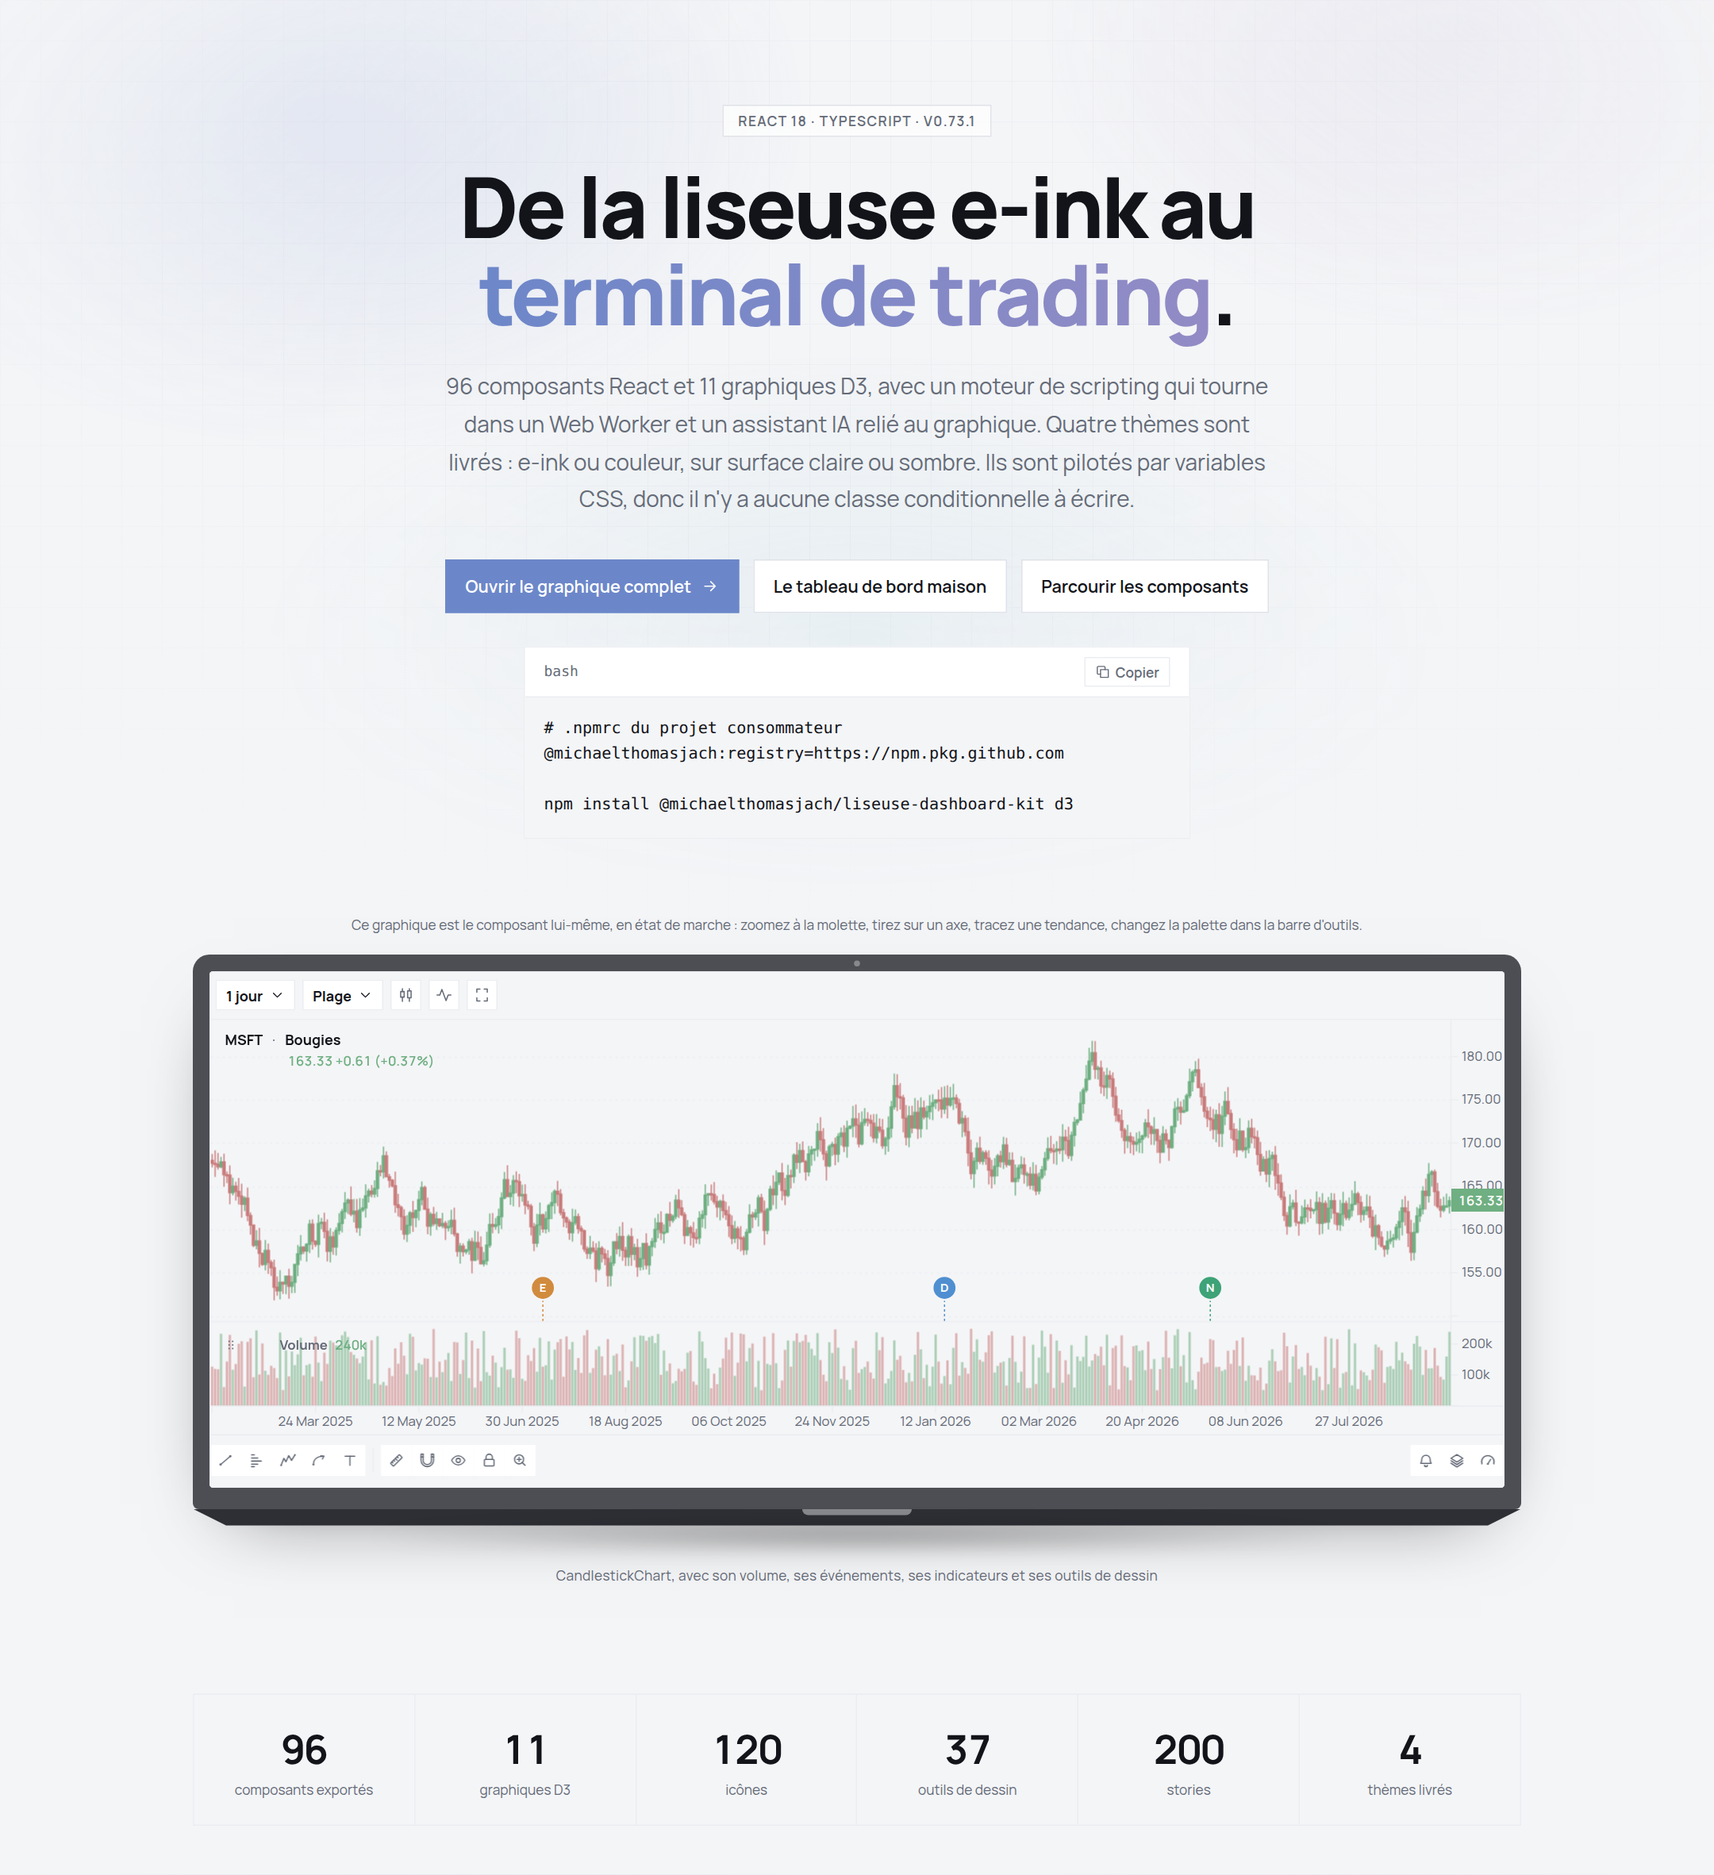
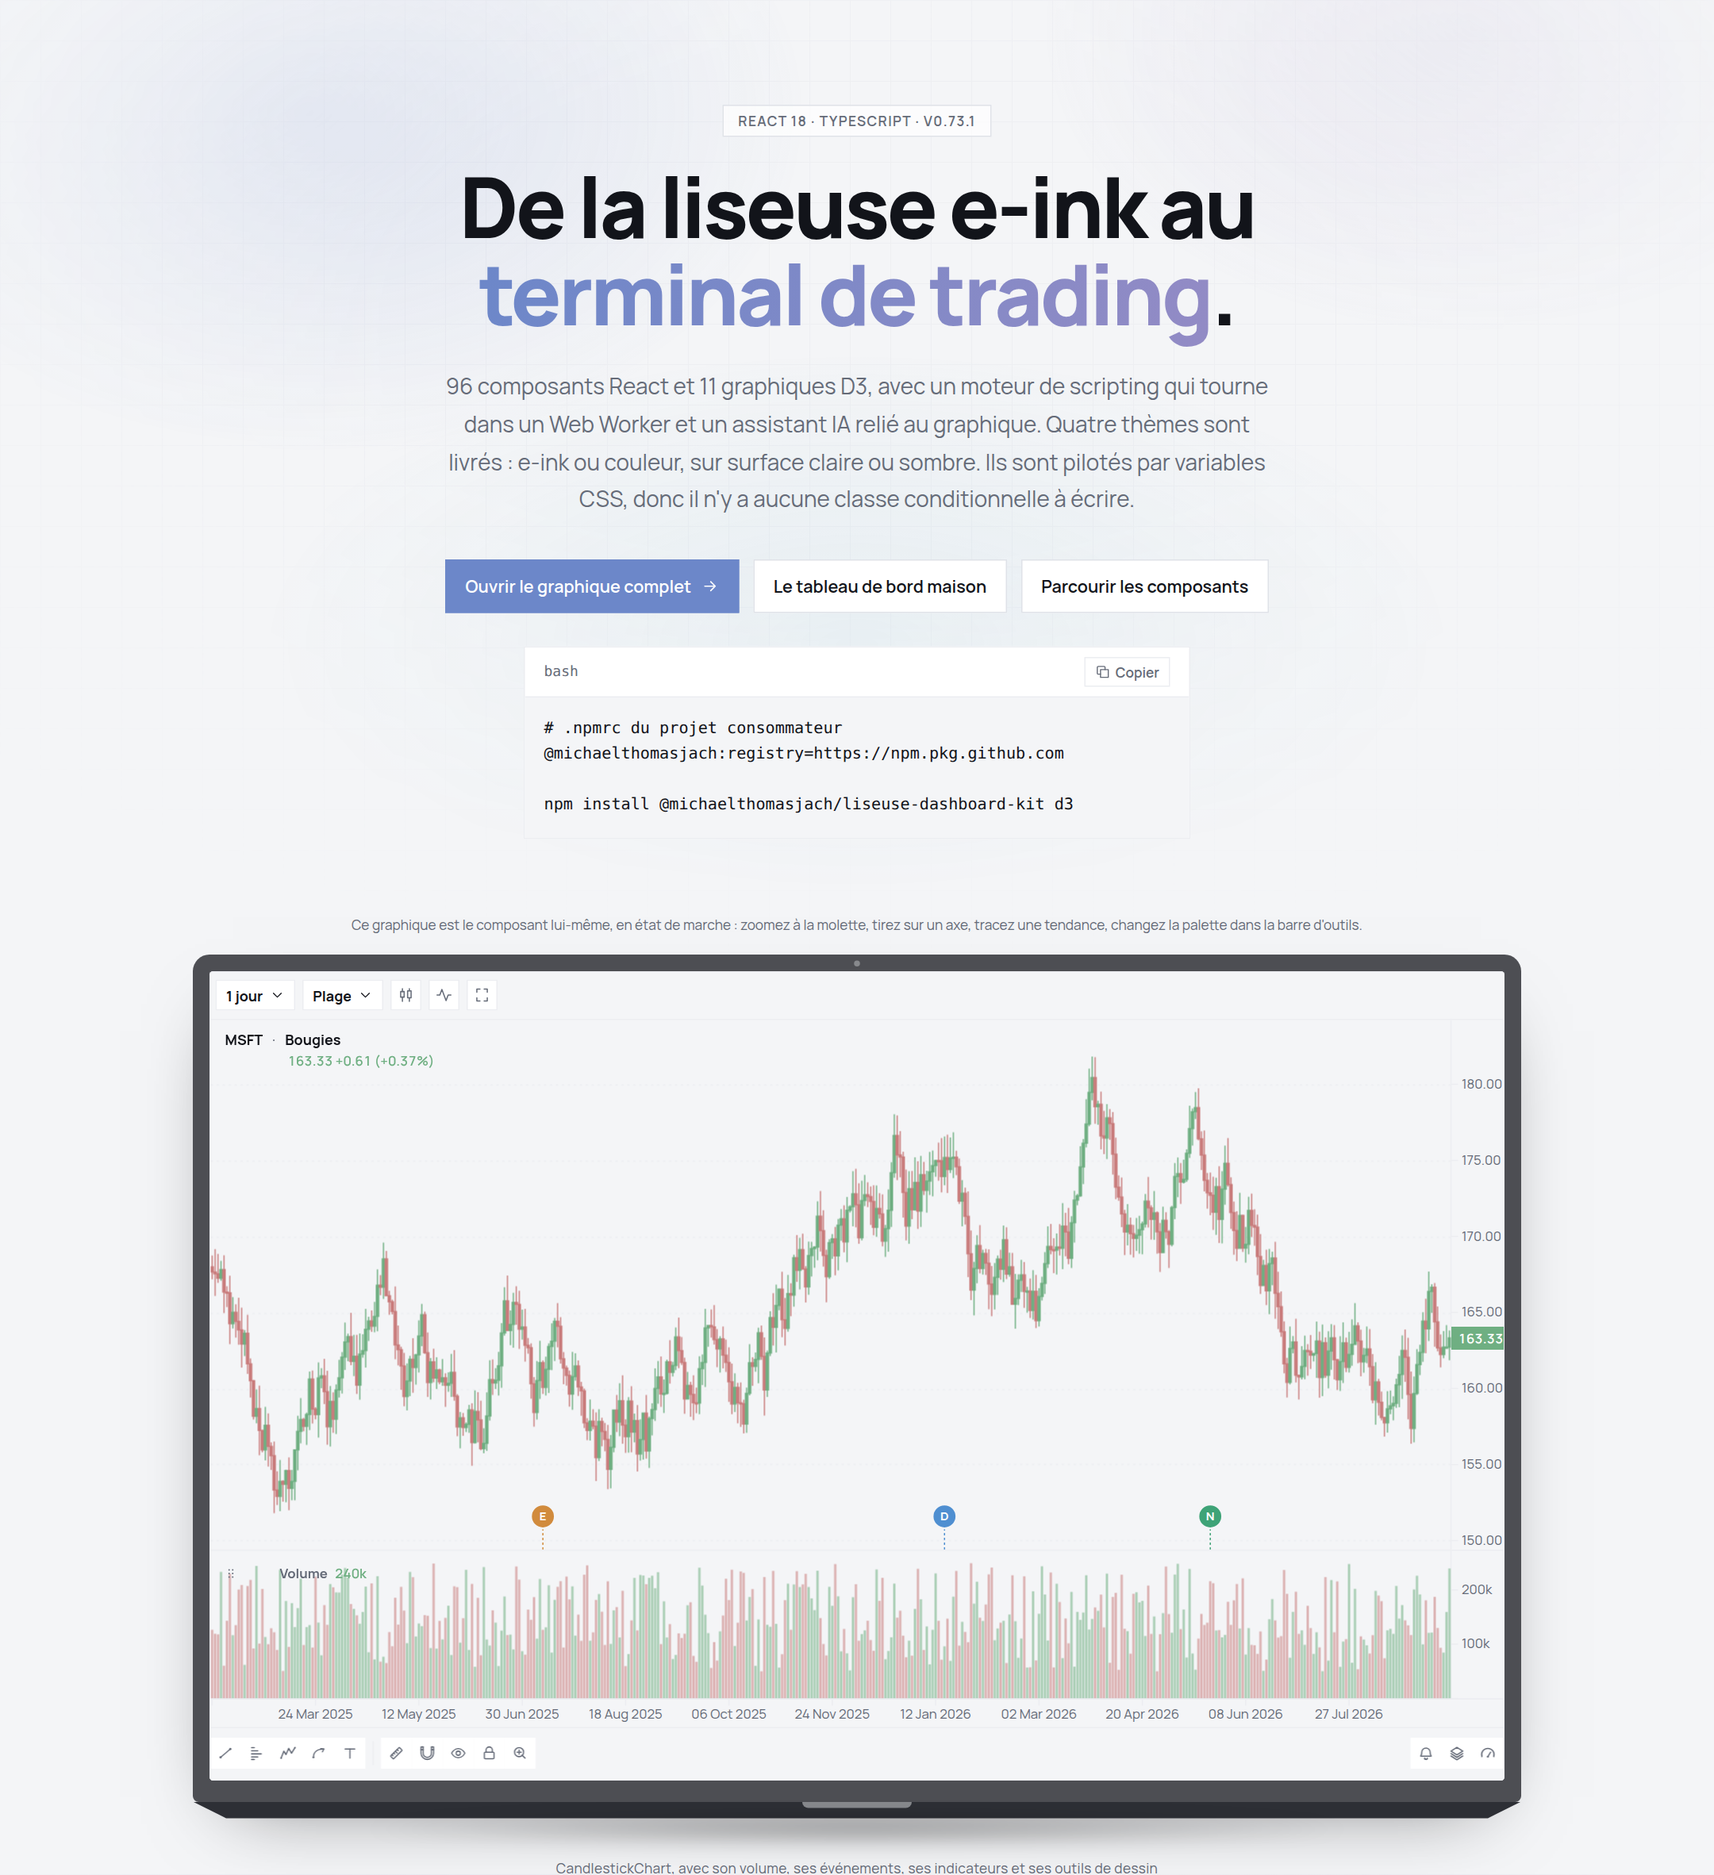
feat(scripting): the no-code canvas takes the whole pane, and a block's code opens in a modal
A third of the editor's height went to a pane that was empty until a
block was selected, and showed one block's body when it was. The canvas
is the view now: clicking a block opens its code in a modal instead, and
the row underneath is gone.

Clicking, not selecting. Selection is set on pointer-down and also means
"what a newly added block attaches to", so tying the modal to it would
have popped it open at the start of every drag. A separate `editingId`
is set by a click that did not move the block, tracked with a ref flipped
the moment a node drag actually moves. Checked both ways: a 120px drag
moves the card and opens nothing, a click opens the block.

Also fixes the device mock-ups on the landing page, which had no real
proportions: the laptop was 2.5:1 where a screen is 16:10, the tablet
1.03 against an iPad's 1.439, the phone 0.542 against an iPhone's 0.461.
All three are on their real ratio now and what goes inside fills them,
rather than the frame being however tall its contents came out. The home
dashboard lost its energy widget in the process — 148px for the 78px the
2360x1640 screen actually has spare.

The three README pictures those changed are regenerated.

Changed region(s): [[0.0931, 0.5561, 0.8995, 1.0], [0.8375, 0.5561, 0.8685, 0.587]]

diff --git a/src/components/charts/candlestick/scripting/components/ScriptGraphEditor.tsx b/src/components/charts/candlestick/scripting/components/ScriptGraphEditor.tsx
@@ -1,5 +1,6 @@
 import { useCallback, useMemo, useRef, useState, type PointerEvent as ReactPointerEvent, type ReactNode } from "react";
 import { PlayIcon, CloseIcon, PlusIcon } from "../../../../icons";
+import { Modal } from "../../../../primitives/Modal";
 import {
   GRAPH_NODE_WIDTH,
   codeForRunPath,
@@ -65,12 +66,20 @@ export function ScriptGraphEditor({ code, onChange, onRunBlock, running, renderB
   const [view, setView] = useState({ x: 0, y: 0, scale: 1 });
   const [drag, setDrag] = useState<DragState | null>(null);
   const [selectedId, setSelectedId] = useState<string | null>(null);
+  /* Which block's code is open in the modal. Separate from `selectedId`, which also means "what a
+     newly added block attaches to" and is set on pointer-down: tying the modal to it would pop it
+     open at the start of every drag. */
+  const [editingId, setEditingId] = useState<string | null>(null);
+  /* Set as soon as a node drag actually moves. A block is opened by a click that did not move the
+     block, which is the only way to tell a tap from the beginning of a drag. */
+  const draggedRef = useRef(false);
 
   // Parsed fresh from the code every time it changes, then laid out — nodes the source positions
   // stay where they are, the rest get a place by depth (see `layoutScriptGraph`).
   const parsed = useMemo(() => parseScriptGraph(code), [code]);
   const graph = useMemo(() => layoutScriptGraph(parsed), [parsed]);
   const selected = graph.nodes.find((n) => n.id === selectedId) ?? null;
+  const editing = graph.nodes.find((n) => n.id === editingId) ?? null;
 
   /** Writes a graph back to the code. Every mutation goes through here, so the code is updated
    *  synchronously with the diagram and the two can never drift apart. */
@@ -95,7 +104,10 @@ export function ScriptGraphEditor({ code, onChange, onRunBlock, running, renderB
       return;
     }
     const point = toCanvas(e.clientX, e.clientY);
-    if (drag.kind === "node") setDrag({ ...drag, x: point.x - drag.grabX, y: point.y - drag.grabY });
+    if (drag.kind === "node") {
+      draggedRef.current = true;
+      setDrag({ ...drag, x: point.x - drag.grabX, y: point.y - drag.grabY });
+    }
     else setDrag({ ...drag, x: point.x, y: point.y });
   }
 
@@ -219,6 +231,7 @@ export function ScriptGraphEditor({ code, onChange, onRunBlock, running, renderB
         ),
     );
     if (selectedId === id) setSelectedId(null);
+    if (editingId === id) setEditingId(null);
   }
 
   function setNodeTitle(id: string, title: string) {
@@ -403,11 +416,16 @@ export function ScriptGraphEditor({ code, onChange, onRunBlock, running, renderB
                   onPointerDown={(e) => {
                     e.stopPropagation();
                     setSelectedId(node.id);
+                    draggedRef.current = false;
                     // The preamble is pinned: it has no `@block` line to write a position on, and
                     // it always runs first anyway (see ScriptGraphNode.preamble).
                     if (node.preamble) return;
                     const point = toCanvas(e.clientX, e.clientY);
                     setDrag({ kind: "node", id: node.id, grabX: point.x - at.x, grabY: point.y - at.y, x: at.x, y: at.y });
+                  }}
+                  onClick={() => {
+                    if (draggedRef.current) return;
+                    setEditingId(node.id);
                   }}
                 >
                   {!node.preamble &&
@@ -525,40 +543,42 @@ export function ScriptGraphEditor({ code, onChange, onRunBlock, running, renderB
         </div>
       </div>
 
-      <div className="lq-script-graph__inspector">
-        {selected ? (
-          <>
-            <div className="lq-script-graph__inspector-head">
-              {selected.preamble ? (
-                <span className="lq-script-graph__inspector-title">Préambule — s'exécute avant tous les blocs</span>
-              ) : (
-                <input
-                  className="lq-script-graph__inspector-name"
-                  value={selected.title}
-                  onChange={(e) => setNodeTitle(selected.id, e.target.value)}
-                  placeholder="Titre du bloc"
-                  aria-label="Titre du bloc"
-                />
-              )}
-              <button
-                type="button"
-                className="lq-script-graph__inspector-run"
-                onClick={() => onRunBlock(codeForRunPath(graph, selected.id))}
-                disabled={running}
-              >
-                <PlayIcon size={12} /> Exécuter jusqu'ici
-              </button>
-            </div>
-            <div className="lq-script-graph__inspector-editor">
-              {renderBodyEditor(selected.body, (next) => setNodeBody(selected.id, next), selected.id)}
-            </div>
-          </>
-        ) : (
-          <p className="lq-script-graph__inspector-empty">
-            Sélectionnez un bloc pour en modifier le code, ou glissez-en un depuis la palette.
-          </p>
+      <Modal
+        open={editing !== null}
+        onClose={() => setEditingId(null)}
+        size="wide"
+        title={
+          editing === null ? null : editing.preamble ? (
+            "Préambule — s'exécute avant tous les blocs"
+          ) : (
+            <input
+              className="lq-script-graph__inspector-name"
+              value={editing.title}
+              onChange={(e) => setNodeTitle(editing.id, e.target.value)}
+              placeholder="Titre du bloc"
+              aria-label="Titre du bloc"
+            />
+          )
+        }
+        footer={
+          editing === null ? null : (
+            <button
+              type="button"
+              className="lq-script-graph__inspector-run"
+              onClick={() => onRunBlock(codeForRunPath(graph, editing.id))}
+              disabled={running}
+            >
+              <PlayIcon size={12} /> Exécuter jusqu'ici
+            </button>
+          )
+        }
+      >
+        {editing !== null && (
+          <div className="lq-script-graph__inspector-editor">
+            {renderBodyEditor(editing.body, (next) => setNodeBody(editing.id, next), editing.id)}
+          </div>
         )}
-      </div>
+      </Modal>
     </div>
   );
 }

diff --git a/src/components/charts/candlestick/scripting/components/ScriptGraphEditor.css b/src/components/charts/candlestick/scripting/components/ScriptGraphEditor.css
@@ -1,12 +1,14 @@
-/* The no-code view: palette, canvas, inspector. Three columns collapsing to a stack of two rows
-   plus a drawer on a narrow editor — see the media query at the bottom. */
+/* The no-code view: a palette and a canvas, side by side, stacking on a narrow editor — see the
+   media query at the bottom. A block's code lives in a modal opened by clicking the block, not in
+   a pane under the canvas. */
 .lq-script-graph {
   display: grid;
   grid-template-columns: 210px minmax(0, 1fr);
-  grid-template-rows: minmax(0, 1fr) minmax(180px, 40%);
-  grid-template-areas:
-    "palette stage"
-    "palette inspector";
+  /* One row. The canvas is the view; a block's code opens in a modal on click, so the pane that
+     used to sit under it — empty until something was selected, and a third of the height even
+     then — is gone. */
+  grid-template-rows: minmax(0, 1fr);
+  grid-template-areas: "palette stage";
   gap: var(--lq-space-2);
   /* `flex: 1 1 0`, not `height: 100%`: the parent (.lq-script-editor-panel__main) is a flex column
      whose height comes from *its* parent, so a percentage here would resolve against a height the
@@ -373,23 +375,7 @@
   color: var(--lq-color-negative);
 }
 
-/* ---- inspector ---- */
-
-.lq-script-graph__inspector {
-  grid-area: inspector;
-  display: flex;
-  flex-direction: column;
-  min-height: 0;
-  border-top: 1px solid var(--lq-color-border-subtle);
-  padding-top: var(--lq-space-2);
-}
-
-.lq-script-graph__inspector-head {
-  display: flex;
-  align-items: center;
-  gap: var(--lq-space-2);
-  padding-bottom: var(--lq-space-2);
-}
+/* ---- the block's code, inside the modal ---- */
 
 .lq-script-graph__inspector-name {
   flex: 1;
@@ -407,13 +393,6 @@
 .lq-script-graph__inspector-name:focus {
   outline: none;
   border-color: var(--lq-color-accent);
-}
-
-.lq-script-graph__inspector-title {
-  flex: 1;
-  font-size: 0.78rem;
-  font-weight: 600;
-  color: var(--lq-color-text-muted);
 }
 
 .lq-script-graph__inspector-run {
@@ -439,6 +418,9 @@
   cursor: default;
 }
 
+/* Fills the modal's body rather than taking a fixed slice of it: `.lq-modal--wide` has a fixed
+   640px height, so a code editor sized to its own content left a band of empty white between
+   itself and the footer. */
 .lq-script-graph__inspector-editor {
   flex: 1 1 0;
   min-height: 0;
@@ -447,24 +429,15 @@
   flex-direction: column;
 }
 
-.lq-script-graph__inspector-empty {
-  margin: 0;
-  padding: var(--lq-space-4) 0;
-  font-size: 0.78rem;
-  color: var(--lq-color-text-muted);
-  text-align: center;
-}
-
 /* Narrow editor (a docked pane, a phone): the palette becomes a scrolling strip above the canvas
    rather than a column stealing 210px of the width the diagram needs. */
 @media (max-width: 720px) {
   .lq-script-graph {
     grid-template-columns: minmax(0, 1fr);
-    grid-template-rows: auto minmax(0, 1fr) minmax(150px, 38%);
+    grid-template-rows: auto minmax(0, 1fr);
     grid-template-areas:
       "palette"
-      "stage"
-      "inspector";
+      "stage";
   }
 
   .lq-script-graph__palette {

diff --git a/src/landing/LandingPage.tsx b/src/landing/LandingPage.tsx
@@ -14,8 +14,7 @@ import { ClockWidget } from "../components/widgets/ClockWidget";
 import { WeatherWidget } from "../components/widgets/WeatherWidget";
 import { MetricListWidget } from "../components/widgets/MetricListWidget";
 import { LightsWidget } from "../components/widgets/LightsWidget";
-import { EnergyWidget } from "../components/widgets/EnergyWidget";
-import { ArrowRightIcon, PartlyCloudyIcon, SolarPanelIcon, SunIcon } from "../components/icons";
+import { ArrowRightIcon, PartlyCloudyIcon, SunIcon } from "../components/icons";
 import { generateCandles, generateSeries, SAMPLE_HOLDINGS } from "../test-data/financeSampleData";
 import { AppShowcase } from "./AppShowcase";
 import { CatalogStrip } from "./CatalogStrip";
@@ -155,18 +154,6 @@ function HomeDashboardScreen() {
             { id: "bureau", label: "Bureau", on: false, level: 0, statusText: "éteint" },
           ]}
         />
-        <EnergyWidget
-          rows={[
-            {
-              id: "solar",
-              icon: <SolarPanelIcon />,
-              label: "Solaire produit aujourd'hui",
-              value: "1,0 kWh",
-              details: ["442 W à l'instant"],
-            },
-            { id: "battery", label: "Batterie maison", value: "62 %", gaugePercent: 62 },
-          ]}
-        />
       </DashboardGridItem>
     </DashboardGrid>
   );
@@ -222,7 +209,7 @@ export function LandingPage({ version }: LandingPageProps) {
             <CandlestickChart
               data={HERO_CANDLES}
               symbol="MSFT"
-              height={392}
+              fillHeight
               showVolume
               zoomable
               showIndicators
@@ -301,7 +288,7 @@ export function LandingPage({ version }: LandingPageProps) {
                     formatX={(x) => (x as Date).toLocaleDateString("fr-FR", { day: "2-digit", month: "short" })}
                   />
                   <WatchlistWidget
-                    items={SAMPLE_HOLDINGS.slice(0, 3).map((h) => ({
+                    items={SAMPLE_HOLDINGS.slice(0, 4).map((h) => ({
                       id: h.id,
                       symbol: h.symbol,
                       name: h.name,

diff --git a/src/landing/DeviceFrames.css b/src/landing/DeviceFrames.css
@@ -60,10 +60,19 @@
   background: var(--lqx-screen-inset);
 }
 
+/* Real proportions, not whatever the content happened to be: a screen is a piece of hardware with
+   a fixed shape, and a 2.5:1 "laptop" reads as a letterbox rather than as a machine. What goes
+   inside fills it (the chart uses `fillHeight`), instead of the screen being however tall its
+   contents came out. */
 .lqx-laptop__screen {
+  aspect-ratio: 16 / 10;
   overflow: hidden;
   border-radius: 3px;
   background-color: var(--lq-color-bg);
+}
+
+.lqx-laptop__screen > * {
+  height: 100%;
 }
 
 /* Tapered base, cut with clip-path rather than the border-triangle trick — the trapezoid stays a
@@ -109,10 +118,16 @@
   background: var(--lqx-screen-inset);
 }
 
+/* iPad 10.9" in landscape: 2360 x 1640. */
 .lqx-tablet__screen {
+  aspect-ratio: 2360 / 1640;
   overflow: hidden;
   border-radius: 4px;
   background-color: var(--lq-color-bg);
+}
+
+.lqx-tablet__screen > * {
+  height: 100%;
 }
 
 /* ── Phone ──────────────────────────────────────────────────────────────────────────────── */
@@ -142,10 +157,16 @@
   background: var(--lqx-chrome);
 }
 
+/* iPhone 15: 1179 x 2556. */
 .lqx-phone__screen {
+  aspect-ratio: 1179 / 2556;
   overflow: hidden;
   border-radius: 24px;
   background-color: var(--lq-color-bg);
+}
+
+.lqx-phone__screen > * {
+  height: 100%;
 }
 
 .lqx-phone__bar {

diff --git a/src/landing/ScrollCinema.css b/src/landing/ScrollCinema.css
@@ -276,7 +276,9 @@
 
 .lqx-nocode__body {
   width: 100%;
-  min-height: 88px;
+  /* Fills the box the modal gives it, rather than sitting at the top of it with the rest empty.
+     The real editor (CodeMirror, in ScriptEditorPanel) does this on its own. */
+  height: 100%;
   padding: 8px 10px;
   border: 0;
   resize: none;
